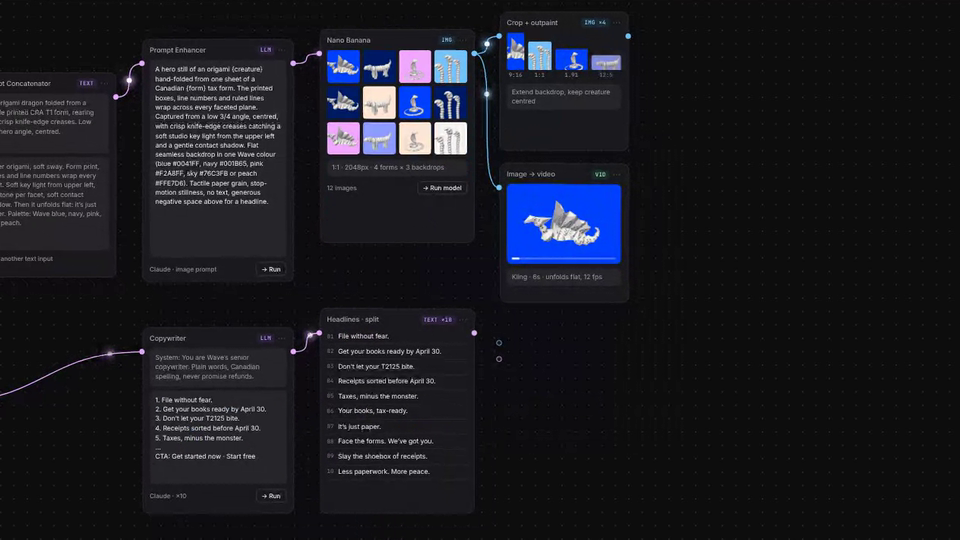
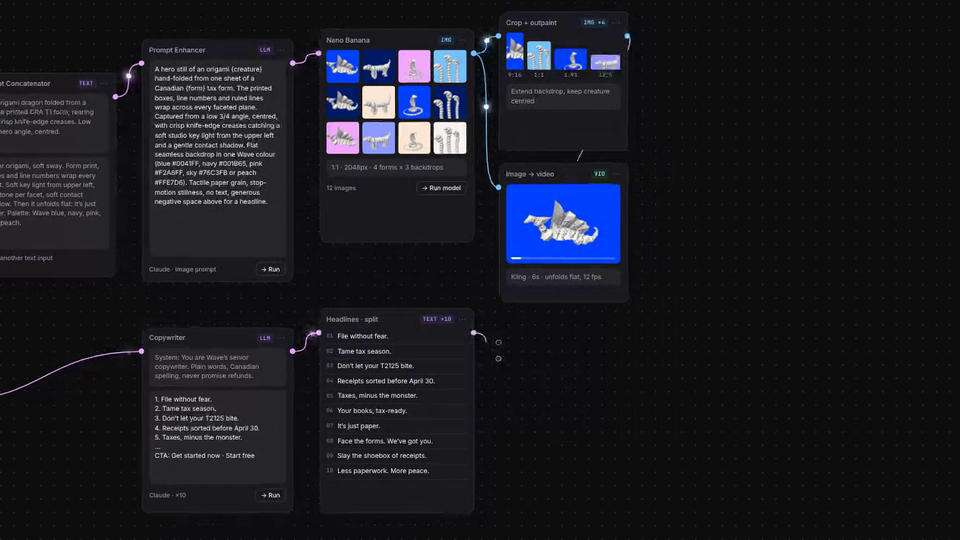
Wave Tax Weave Walkthrough: Facebook ad headline back to Tame tax season, April 30 line as its subheading
Claude-Session: https://claude.ai/code/session_016rpgua64Lx5cLk6vLaSVPx

diff --git a/wave-tax-weave-walkthrough/index.html b/wave-tax-weave-walkthrough/index.html
@@ -795,13 +795,13 @@ function liveScene(cv,a,extra){return new Origami.Scene(cv,Object.assign(OPT(a),
 function unfoldK(t,hold,dur){return clamp((t-hold)/dur);}
 
 /* campaign copy */
-const HEADR=['File without *fear.*','Get your books ready by *April 30.*','Don’t let your T2125 *bite.*','Receipts sorted before *April 30.*','Taxes, minus the *monster.*','Your books, *tax‑ready.*','It’s just *paper.*','Face the forms. *We’ve got you.*','Slay the shoebox of *receipts.*','Less paperwork. *More peace.*'];
+const HEADR=['File without *fear.*','Tame tax *season.*','Don’t let your T2125 *bite.*','Receipts sorted before *April 30.*','Taxes, minus the *monster.*','Your books, *tax‑ready.*','It’s just *paper.*','Face the forms. *We’ve got you.*','Slay the shoebox of *receipts.*','Less paperwork. *More peace.*'];
 const HEAD=HEADR.map(h=>h.replace(/\*/g,'').replace(/‑/g,'-'));
 const rich=(h,c)=>h.replace(/\*([^*]+)\*/g,`<em style="color:${c}">$1</em>`);
 const CTA=['Get tax-ready','Get tax-ready','Start free','Get tax-ready','Start free','Learn more','Learn more','Start free','Get tax-ready','Learn more'];
 
 /* ad template: fills a box of w×h with art, headline, wordmark and CTA */
-const SUB=['Wave keeps your books ready, year-round.','Receipts sorted, every expense categorized.','Free accounting for Canadian small business.','Tax-ready books, all year long.','Tax-ready books, all year long.','Reports your accountant will thank you for.'];
+const SUB=['Wave keeps your books ready, year-round.','Get your books ready by April 30.','Free accounting for Canadian small business.','Tax-ready books, all year long.','Tax-ready books, all year long.','Reports your accountant will thank you for.'];
 function adHTML(ai,hi,w,h,live){
   const IMG=(st,aw)=>live?`<canvas class="art" data-live="${ai}" style="${st};height:${aw/1.3}px"></canvas>`:`<img class="art" data-art="${ai}" src="${ART[ai].src}" style="${st}">`;
   const a=ART[ai],r=w/h,fg=a.dark?'#fff':'#001b65',em=a.dark?'#e8aaff':'#0041ff',ctaBg=a.dark?'#e8aaff':'#0041ff',ctaFg=a.dark?'#001b65':'#fff',H=rich(HEADR[hi],em);
@@ -883,7 +883,7 @@ const vid=$('#vid'),vidCv=vid.querySelector('canvas'),vidBar=vid.querySelector('
 const sheet=$('#sheet');sheet.innerHTML='<tr><th>art</th><th>headline</th><th>cta</th></tr>'+[0,1,2,3,4,5,6,7,8,9].map(i=>`<tr><td><img data-art="${i}" src="${ART[i].src}" alt=""></td><td>${HEAD[i]}</td><td>${CTA[i]}</td></tr>`).join('');
 const sheetRows=[...sheet.querySelectorAll('tr')].slice(1);
 const bigc=$('#bigc');
-const COPYOUT='1. File without fear.\n2. Get your books ready by April 30.\n3. Don’t let your T2125 bite.\n4. Receipts sorted before April 30.\n5. Taxes, minus the monster.\n…\nCTA: Get started now · Start free';
+const COPYOUT='1. File without fear.\n2. Tame tax season.\n3. Don’t let your T2125 bite.\n4. Receipts sorted before April 30.\n5. Taxes, minus the monster.\n…\nCTA: Get started now · Start free';
 const typeTo=(f,txt,k)=>{const n=Math.round(txt.length*clamp(k));if(f._n!==n){f._n=n;f.textContent=txt.slice(0,n)+(k>0&&k<1?'▍':'');}};
 const CAM1=[[0,1.55,330,300],[2.4,1.55,330,300],[4.2,1.32,560,330],[6.6,1.22,760,380],[9,1.08,1010,420],[11,1.02,1130,470],[12.6,.94,800,450],[15,.94,800,450]];
 function camAt(K,t){let i=0;while(i<K.length-2&&t>K[i+1][0])i++;const a=K[i],b=K[i+1];const k=ease(P(t,a[0],b[0]));return[lerp(a[1],b[1],k),lerp(a[2],b[2],k),lerp(a[3],b[3],k)];}
@@ -960,7 +960,7 @@ const PL=[
   dl:[['Variant','reel-dragon-blue-01'],['Headline','File without fear.'],['Caption','That T1 looks a lot scarier folded up. Wave keeps your books organized all year, so when the CRA comes calling, it’s just paper.'],['CTA','Get started now']]},
  {name:'Facebook feed',k:'1:1 · 1080×1080',art:1,hl:1,
   p:'The paper tiger, folded from a Notice of Assessment, carries the most playful line in the set. Same template, same binding, swapped by row in the sheet.',
-  dl:[['Variant','feed-tiger-navy-02'],['Headline','Get your books ready by April 30.'],['Primary text','Every receipt in one place, every expense categorized. Get your books tax-ready before April 30 with Wave’s free accounting software.'],['CTA','Get tax-ready']]},
+  dl:[['Variant','feed-tiger-navy-02'],['Headline','Tame tax season.'],['Subheading','Get your books ready by April 30.'],['Primary text','Every receipt in one place, every expense categorized. Get your books tax-ready before April 30 with Wave’s free accounting software.'],['CTA','Get tax-ready']]},
  {name:'LinkedIn sponsored',k:'1.91:1 · 1200×628',art:2,hl:5,
   p:'For accountants and business owners the copy turns practical. The T2125 cobra keeps the folded-form idea readable at a glance in the feed.',
   dl:[['Variant','li-snake-pink-06'],['Headline','Your books, tax-ready.'],['Intro','Self-employed in Canada? Wave turns a year of invoices and receipts into tax-ready reports your accountant will actually thank you for.'],['CTA','Learn more']]},
@@ -981,7 +981,7 @@ const reelCv=reelAd.querySelector('canvas'),reelH=reelAd.querySelector('#reelh')
 const fb=el('div','',`<div class="card fb"><div class="c-head"><div class="lg">w</div><div>Wave<small>Sponsored · 🌐</small></div><span class="dots">···</span></div>
 <div class="c-txt">Every receipt in one place, every expense categorized. Get your books tax-ready before April 30 with Wave’s free accounting software. 🧾</div>
 <div class="c-img" style="height:520px">${adHTML(1,1,520,520,1)}</div>
-<div class="c-foot"><div><span class="u">waveapps.com</span><b>Get your books ready by April 30</b></div><span class="btn">Get tax-ready</span></div>
+<div class="c-foot"><div><span class="u">waveapps.com</span><b>Tame tax season with Wave</b></div><span class="btn">Get tax-ready</span></div>
 <div class="c-react"><span><i></i><i></i>1.1K</span><span>84 comments · 52 shares</span></div><div class="c-acts"><span>👍 Like</span><span>💬 Comment</span><span>↗ Share</span></div></div>`,mk);
 // 3 linkedin
 const li=el('div','',`<div class="card li"><div class="c-head"><div class="lg">w</div><div>Wave Financial<small>48,210 followers<br>Promoted</small></div><span class="dots">···</span></div>
